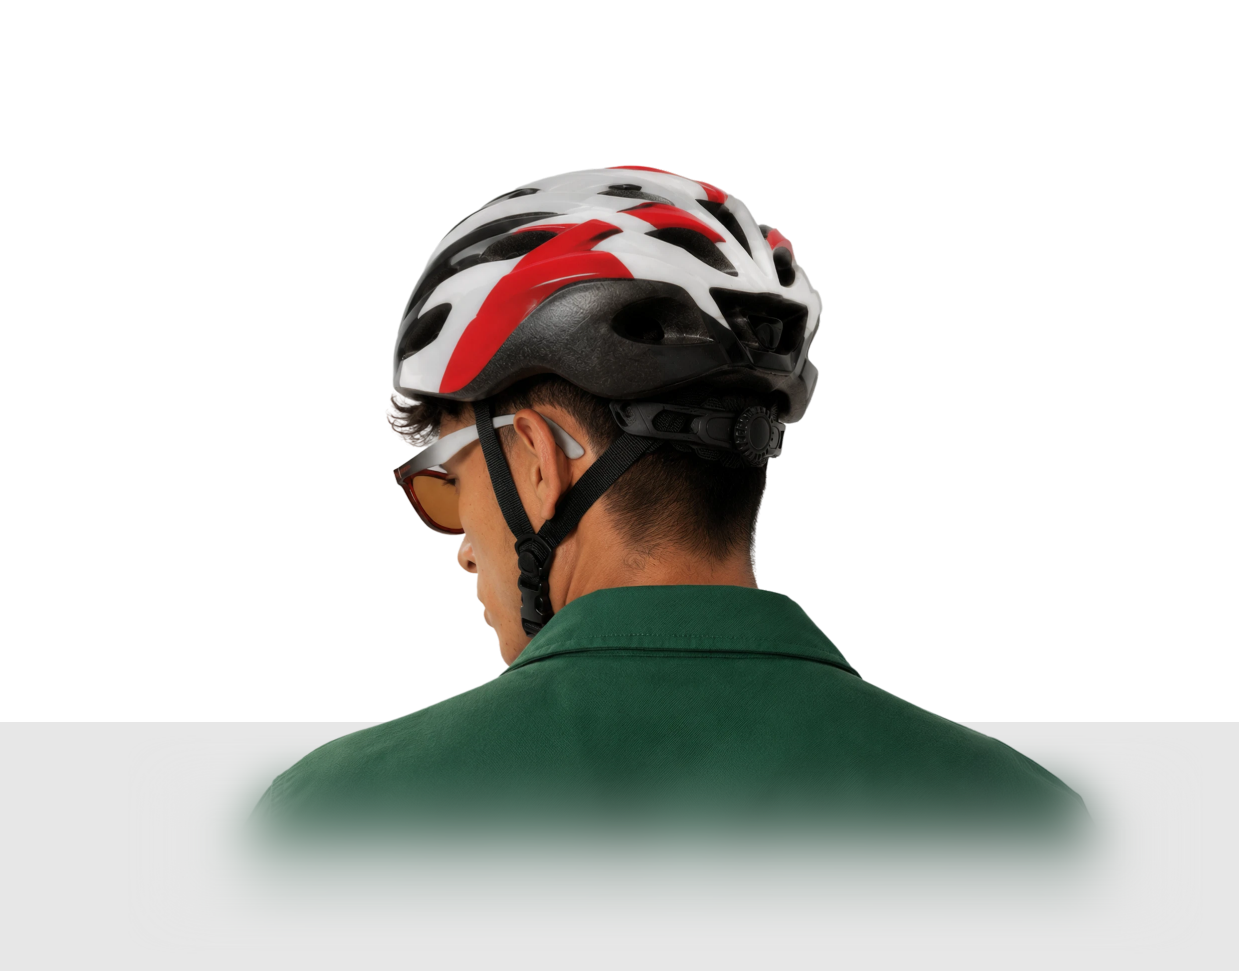
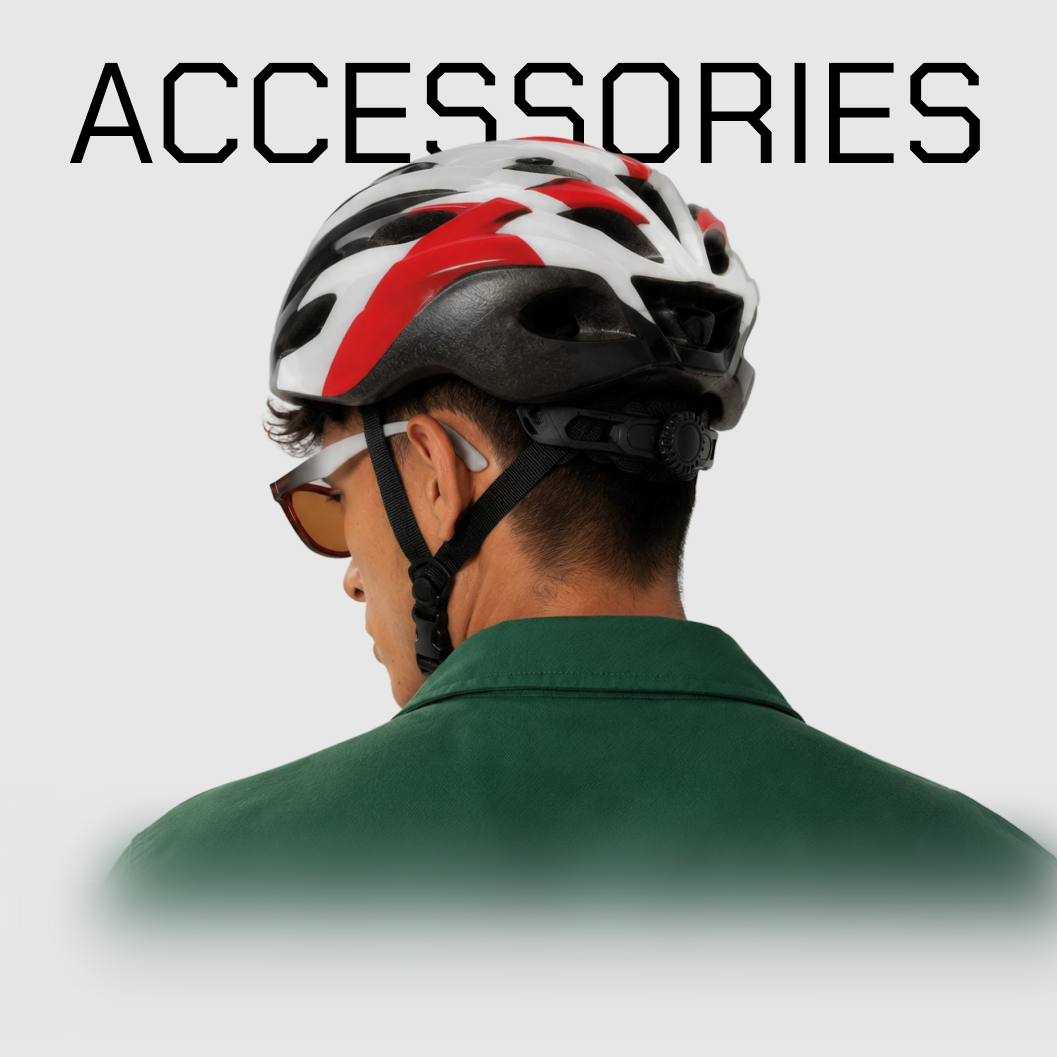
fixed changes

Changed region(s): [[0.0624, 0.0309, 1.0, 0.9269]]

diff --git a/src/app/AccessoriesPage.module.scss b/src/app/AccessoriesPage.module.scss
@@ -13,7 +13,7 @@
   flex-direction: column;
 
   @media (max-width: 60rem) {
-    min-height: 50rem;
+    min-height: 60rem;
   }
 
   .heromedia {
@@ -41,7 +41,7 @@
 
     @media (max-width: 60rem) {
       width: 100%;
-      height: 54rem;
+      height: auto;
       // max-height: 100%;
       // max-height: 80lvh;
 
@@ -57,6 +57,10 @@
     font-weight: 400;
     margin: 0;
     z-index: 0;
+
+    @media (max-width: 768px) {
+      display: none;
+    }
   }
 
   p {
